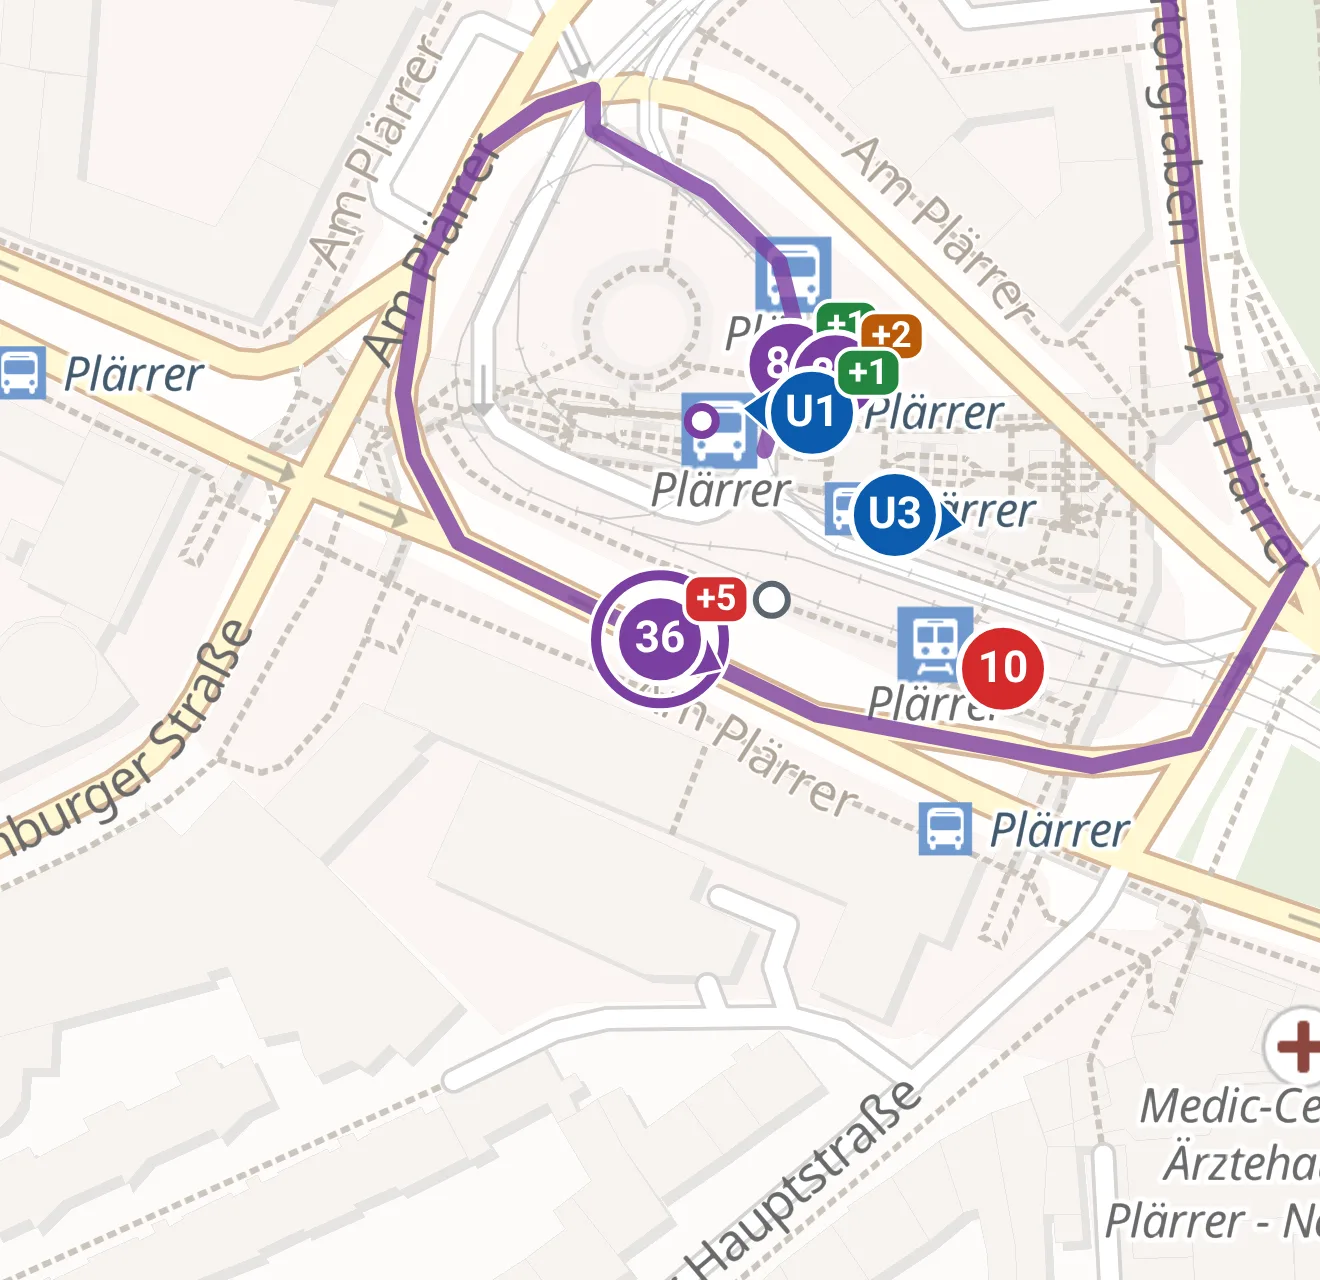
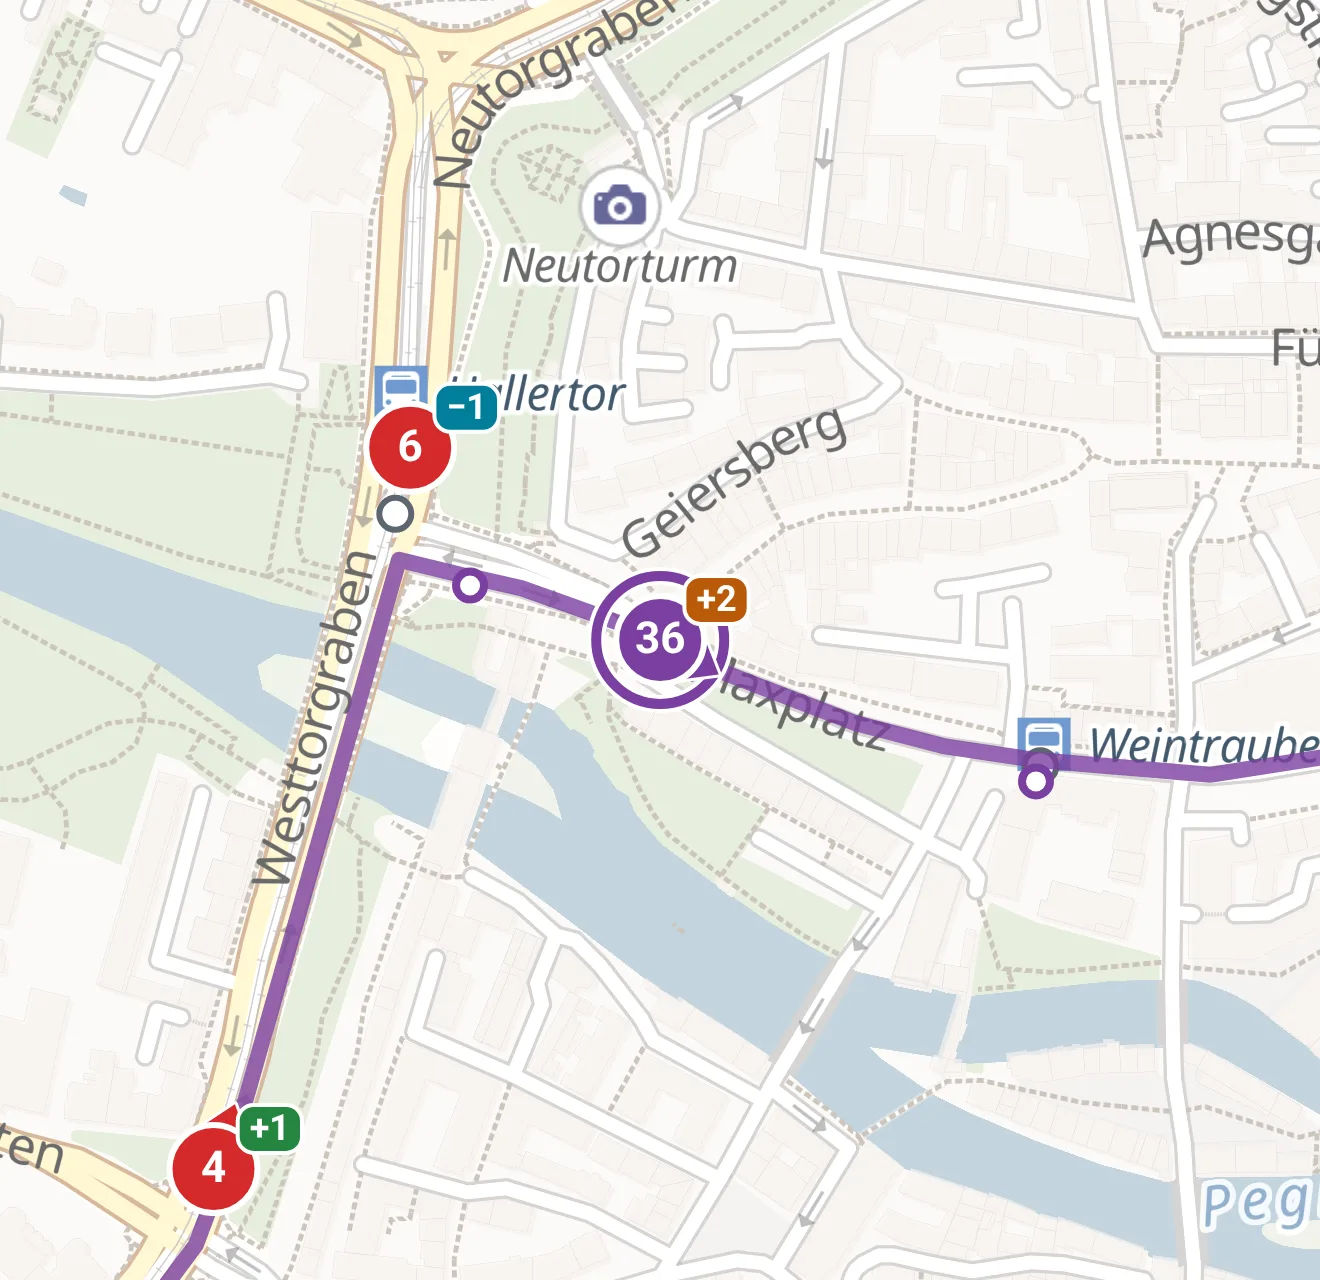
docs(readme): follow bus 36 just past Hallertor, the link preview at zoom 15
The bus is the same trip, now 1 min 40 s late instead of 4 min 40 s, so
that at 13:37 it is on Maxplatz on its way into the old town, with more
around it than at Plärrer; the departures stay those of Plärrer.
build-picture-data.mjs picks it at a stop of its own (AT). The close-up
of the link preview at zoom 15 shows Hallertor, with trams 4 and 6 beside
the bus.

Two more things kept the pictures the same from run to run: before each
shot the vehicles come once more in the order the server gives them for
the view (the page keeps the order they first came in, which depended on
how the map got there, and overlapping markers changed places), and the
text cursor of the search field, which blinks, is hidden.

diff --git a/tools/pictures/README.md b/tools/pictures/README.md
@@ -11,7 +11,7 @@ comes from OpenFreeMap.
 | --- | --- | --- |
 | `feed.zip` | the timetable: the trips that call around Nürnberg and Fürth on that day between 12:30 and 15:45, with their stops, lines and operators as the feed has them; their service runs on that day alone | the GTFS feed of Germany of [gtfs.de](https://gtfs.de), provided by DELFI e.V., as published on 17 October 2026 |
 | `osm.pbf` | the roads and tracks of that area and a little around it, and the borders of its towns and districts | the extract of Middle Franconia of [Geofabrik](https://download.geofabrik.de/europe/germany/bayern/mittelfranken.html), OpenStreetMap data of 17 October 2026 |
-| `realtime.pb` | delays for those trips as a GTFS-Realtime feed like that of gtfs.de, with its notes on who provides the delay data of each operator | made up: each trip's delay comes from its id. Bus 36, which leaves Nürnberg Plärrer at 13:32, is 4 min 40 s late, so that it has just left at 13:37 |
+| `realtime.pb` | delays for those trips as a GTFS-Realtime feed like that of gtfs.de, with its notes on who provides the delay data of each operator | made up: each trip's delay comes from its id. Bus 36, which leaves Nürnberg Plärrer at 13:32, is 1 min 40 s late, so that at 13:37 it has just left Hallertor |
 | `moment.json` | the moment, the stop and the bus that the pictures follow, and what the data was made from | |
 
 ## Licences

diff --git a/README.de.md b/README.de.md
@@ -18,9 +18,9 @@ Verspätungen, aber keine Positionen. Deshalb wird jedes Fahrzeug dort
 gezeichnet, wo es laut Fahrplan und gemeldeter Verspätung gerade sein müsste.
 Ein Fahrzeug kann also etwas vor oder hinter seiner Markierung sein.
 
-![Drei Handys: die Abfahrten von Nürnberg Plärrer, die Fahrt einer davon mit ihrem Fahrzeug auf der Karte und die Suche, die Fürth findet](docs/pictures/phone.webp)
+![Drei Handys: die Abfahrten von Nürnberg Plärrer, die Fahrt eines Busses von dort mit dem Bus auf der Karte in der Altstadt und die Suche, die Fürth findet](docs/pictures/phone.webp)
 
-![Ein breiter Bildschirm, wie die Seite meist aussieht: die Fahrt einer der Abfahrten von Nürnberg Plärrer neben der Karte der Stadt](docs/pictures/wide.webp)
+![Ein breiter Bildschirm, wie die Seite meist aussieht: die Fahrt eines Busses ab Nürnberg Plärrer neben der Karte der Stadt](docs/pictures/wide.webp)
 
 ## Was die Karte kann
 

diff --git a/README.md b/README.md
@@ -17,9 +17,9 @@ Germany.
 no positions, so each vehicle is drawn where the timetable and its reported
 delay put it. It can be a little ahead of or behind its marker.
 
-![Three phones: the departures of Nürnberg Plärrer, the trip of one of them with its vehicle on the map, and the search finding Fürth](docs/pictures/phone.webp)
+![Three phones: the departures of Nürnberg Plärrer, the trip of a bus from there with the bus on the map in the old town, and the search finding Fürth](docs/pictures/phone.webp)
 
-![A wide screen as the page usually looks: the trip of one of the departures of Nürnberg Plärrer beside the map of the city](docs/pictures/wide.webp)
+![A wide screen as the page usually looks: the trip of a bus from Nürnberg Plärrer beside the map of the city](docs/pictures/wide.webp)
 
 ## What you can do
 
